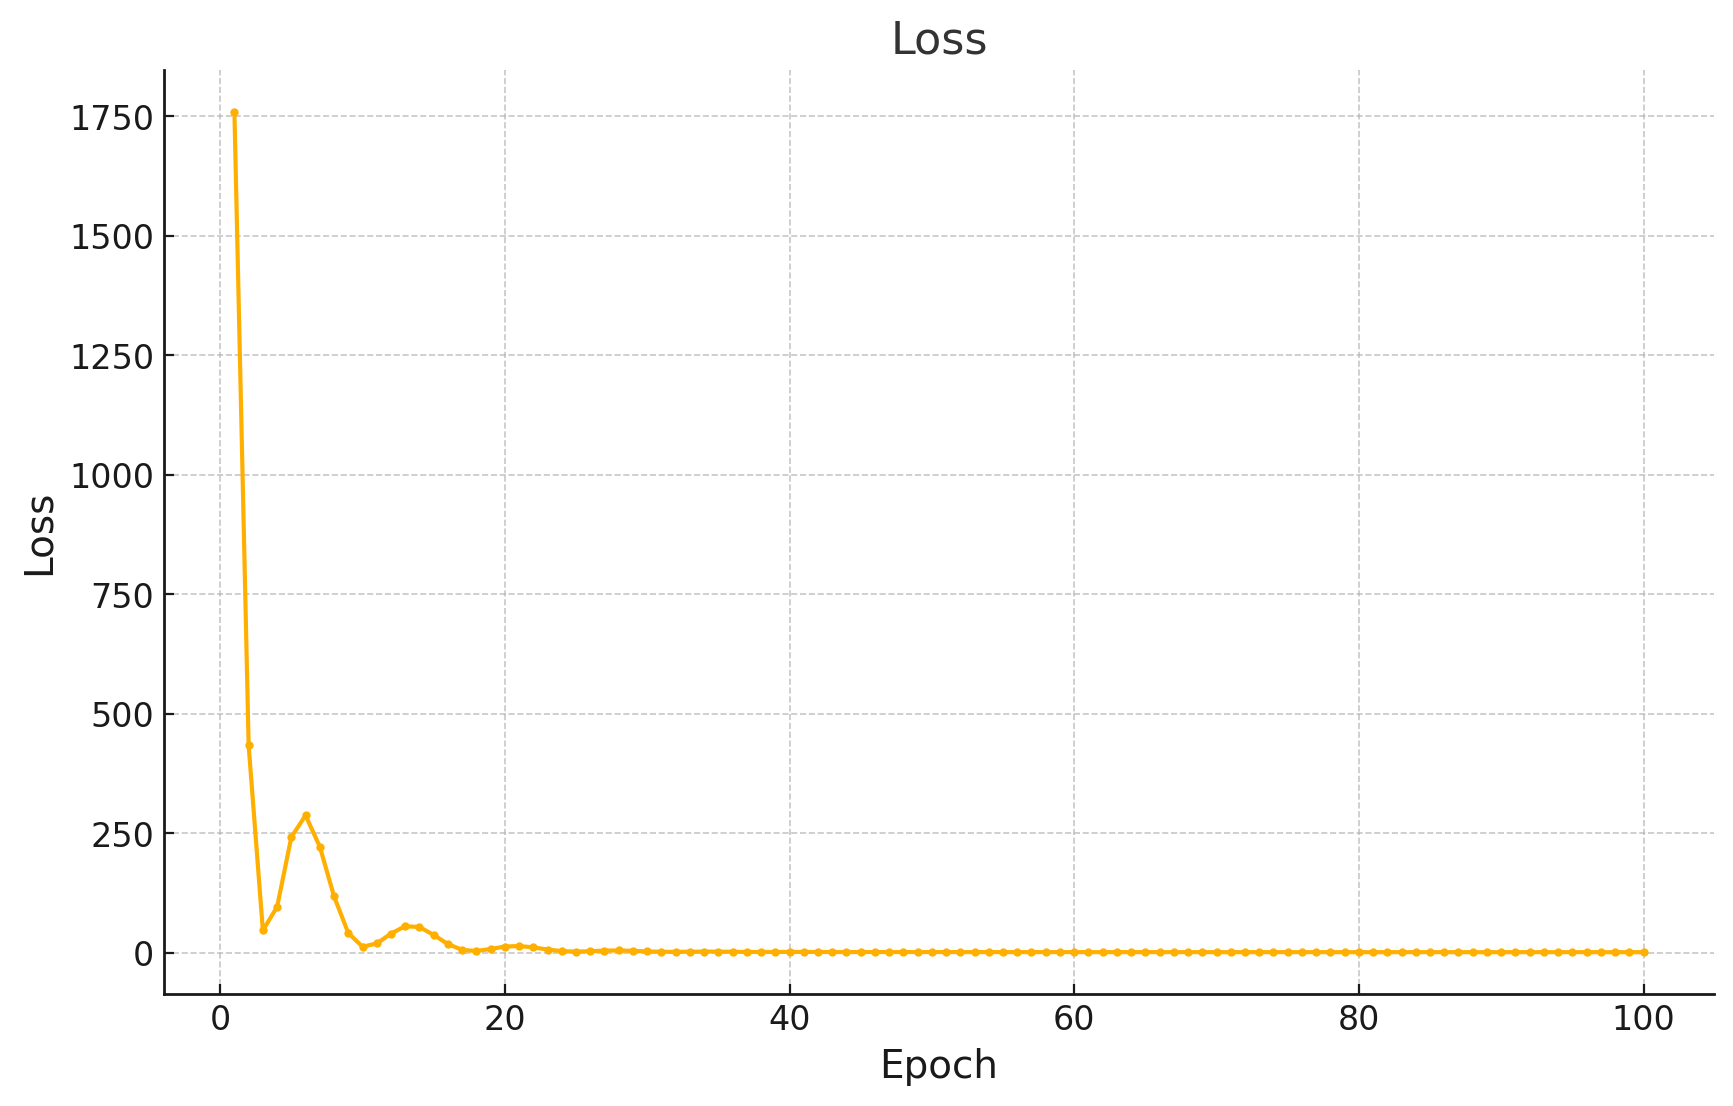
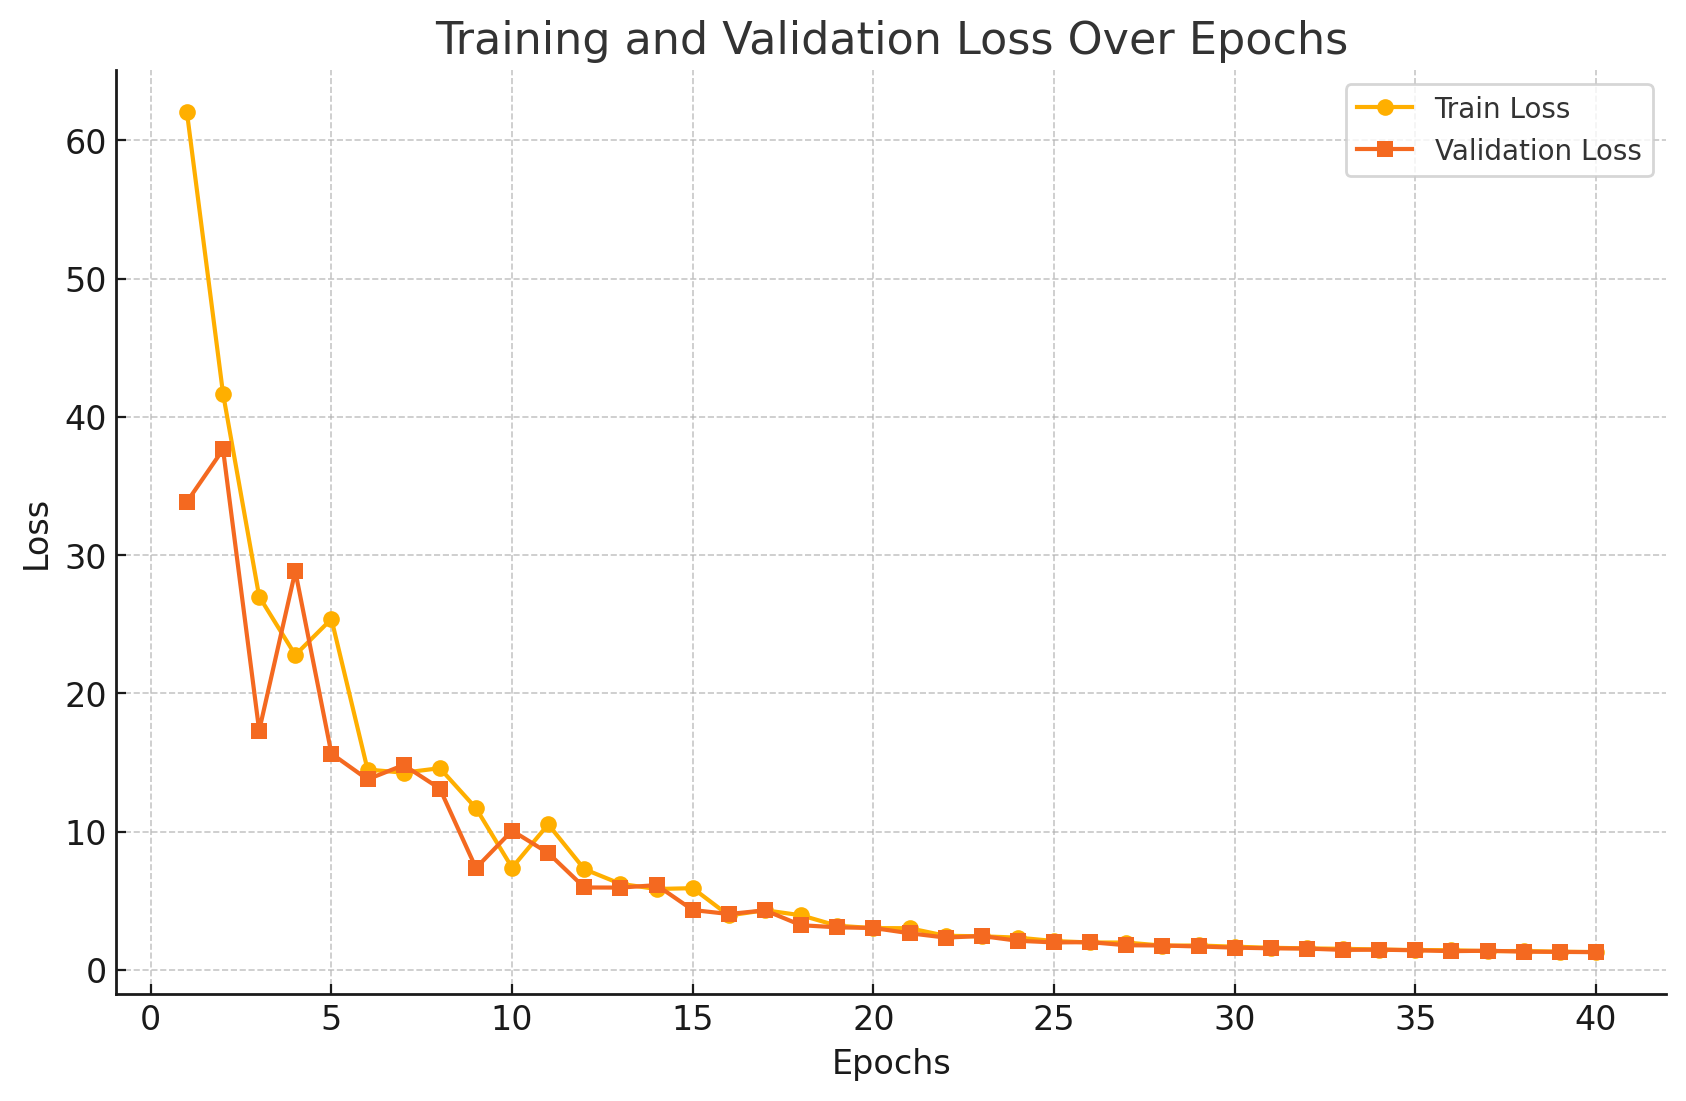
Update Akin

diff --git a/Akin/Readme.md b/Akin/Readme.md
@@ -94,7 +94,7 @@ I've mostly worked on the interaction modules. The main idea behind interaction 
 
 ![Figures/loss.png](Figures/loss.png)
 
-The figure above shows training loss during the training of the interaction module.
+The figure above shows training and validation loss during the training of the interaction module.
 
 # 4. Conclusion
 
